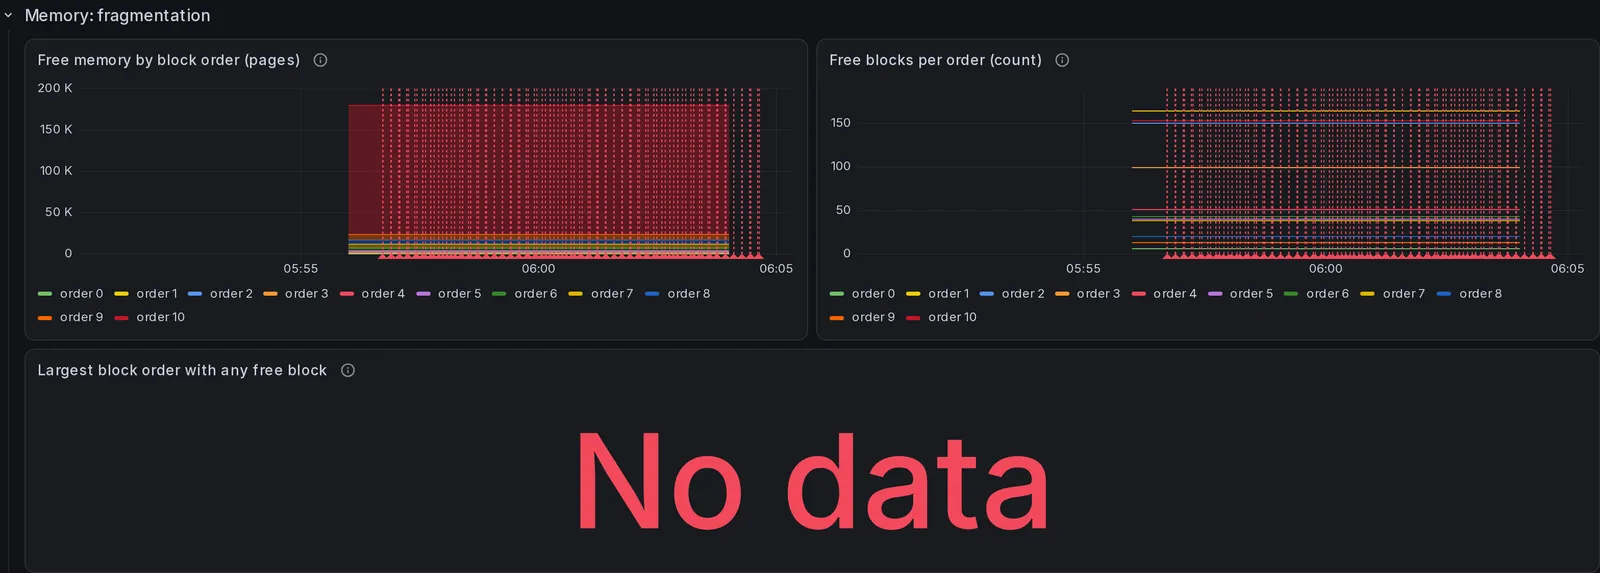
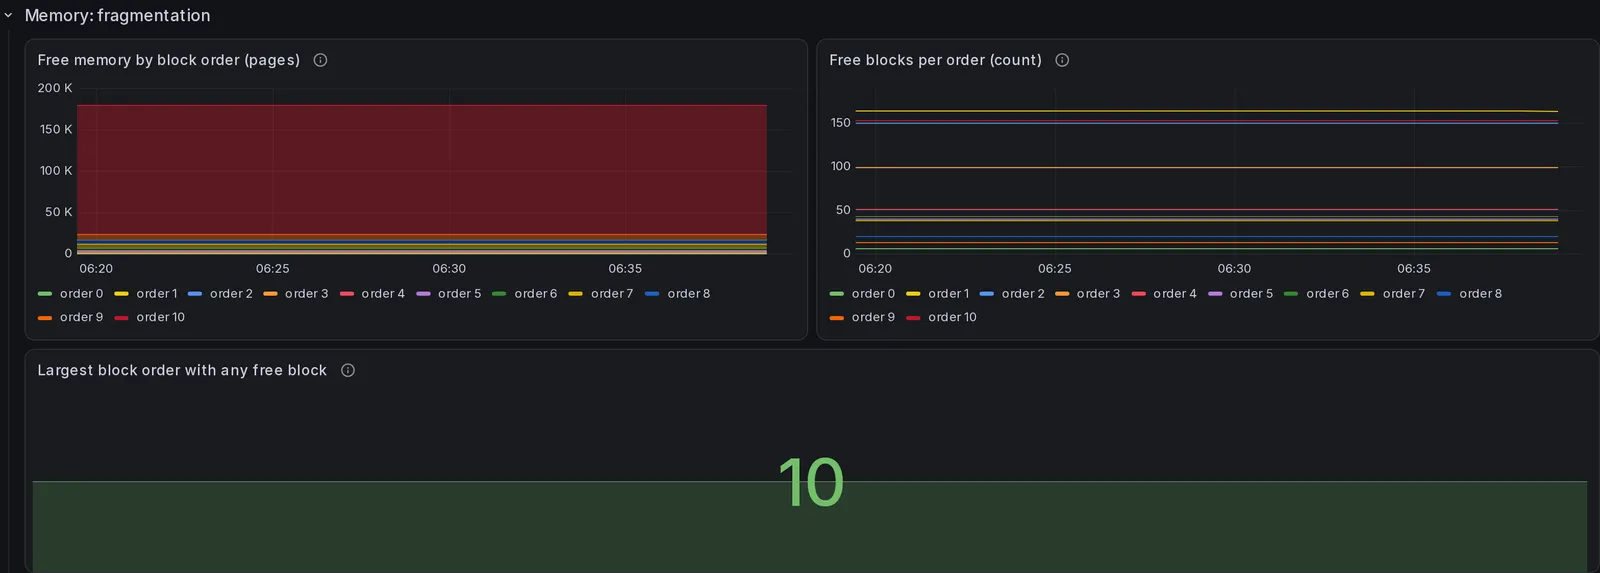
feat(site): one capture per dashboard section, of a demonstration database
The dashboards are 171 panels over 23 sections and the pages that describe them
had no picture of any of it.

`test/e2e/docker`'s fill step writes a long run of the same canned fake agent
the end-to-end suites use into a container InfluxDB, imports the dashboard into
a container Grafana and leaves a manifest behind;
`site/scripts/gen-dashboard-captures.mjs` then photographs every section and
encodes it as WebP. Nothing about a real router is in them, and the page says
so before the first image.

Three things it has to get right, each learned by getting it wrong: the range
is the run and nothing either side of it, or every graph has an empty half; the
two annotation layers go off, because the fake agent fires both continuously
and every chart ends up behind a picket fence; and a section is scrolled end to
end in small steps before it is photographed, because Grafana renders a panel
when it enters the viewport and a section captured without that is mostly empty
boxes.

Changed region(s): [[0.0, 0.7417, 1.0, 1.0], [0.0312, 0.1483, 0.5, 0.4747], [0.5312, 0.1483, 1.0, 0.4747]]

diff --git a/test/e2e/docker/captures_test.go b/test/e2e/docker/captures_test.go
@@ -72,7 +72,10 @@ func TestFillStoreForCaptures(t *testing.T) {
 	defer agent.Close()
 
 	started := time.Now()
-	cmd := exec.CommandContext(ctx, bin, "forward",
+	// The binary is the one this function built two dozen lines up, into a
+	// directory under the repository, and every argument is a constant or a
+	// port this process just reserved.
+	cmd := exec.CommandContext(ctx, bin, "forward", // #nosec G204,G702
 		"--subnet", subnet, "--port", strconv.Itoa(port), "--transport", "direct",
 		"--for", forSpan.String(), "--api-mode", "off", "--host-tag", capturesHostTag,
 		"--influx", "http://"+stack.InfluxDB+"/api/v3/write_lp?db="+capturesDB+"&precision=nanosecond",
